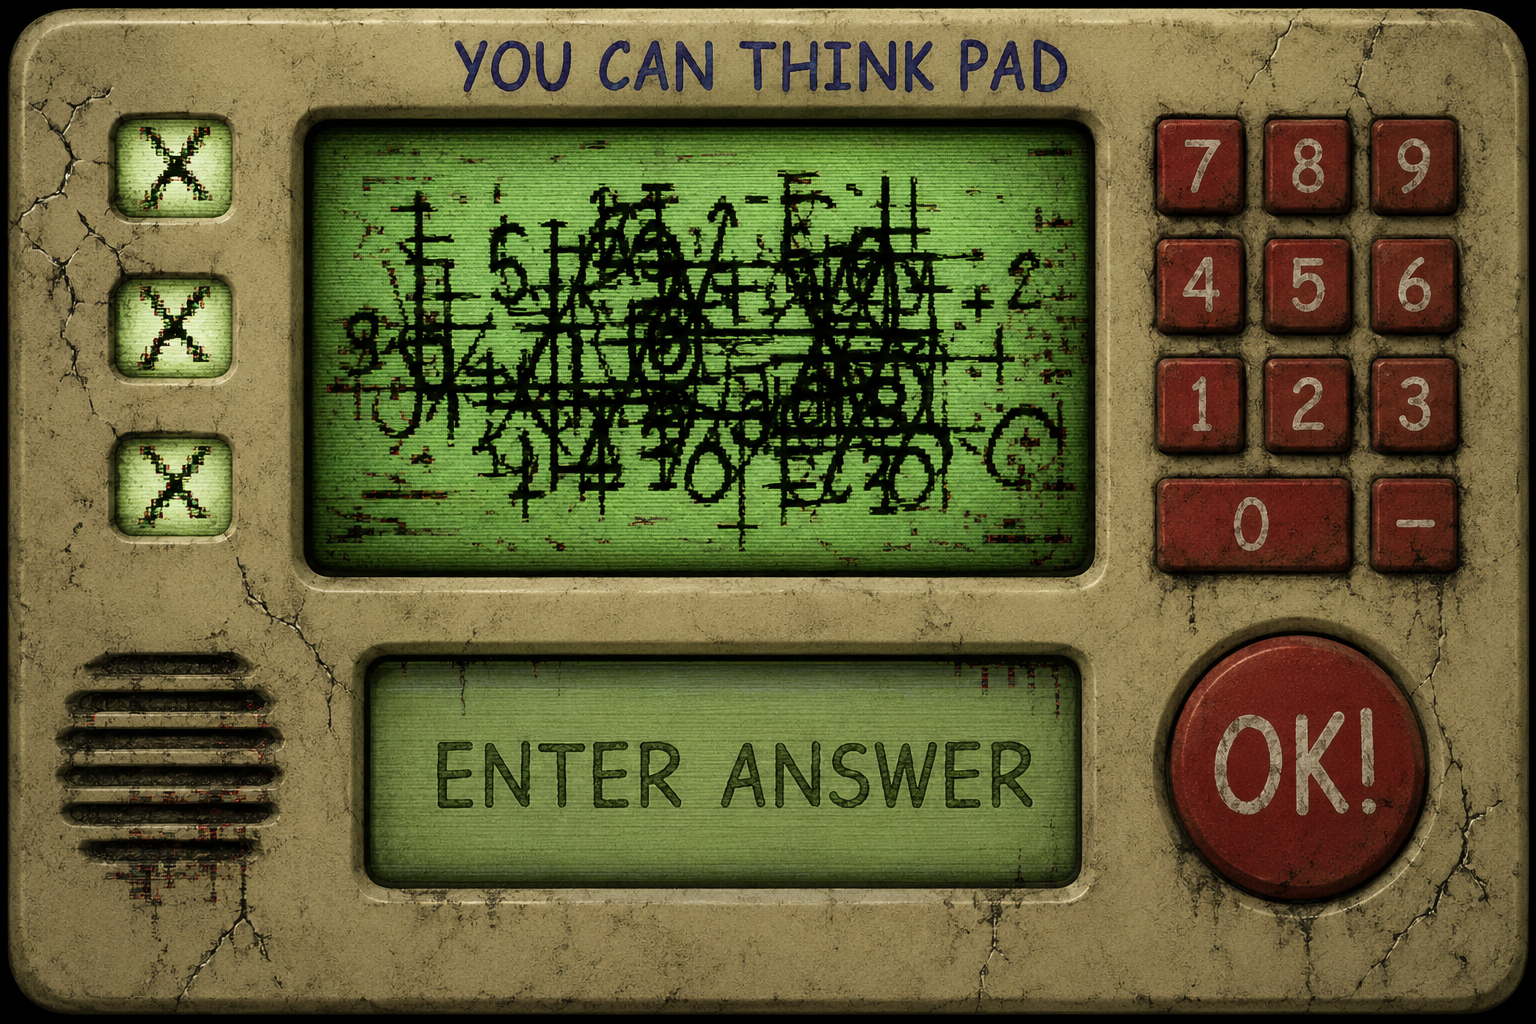
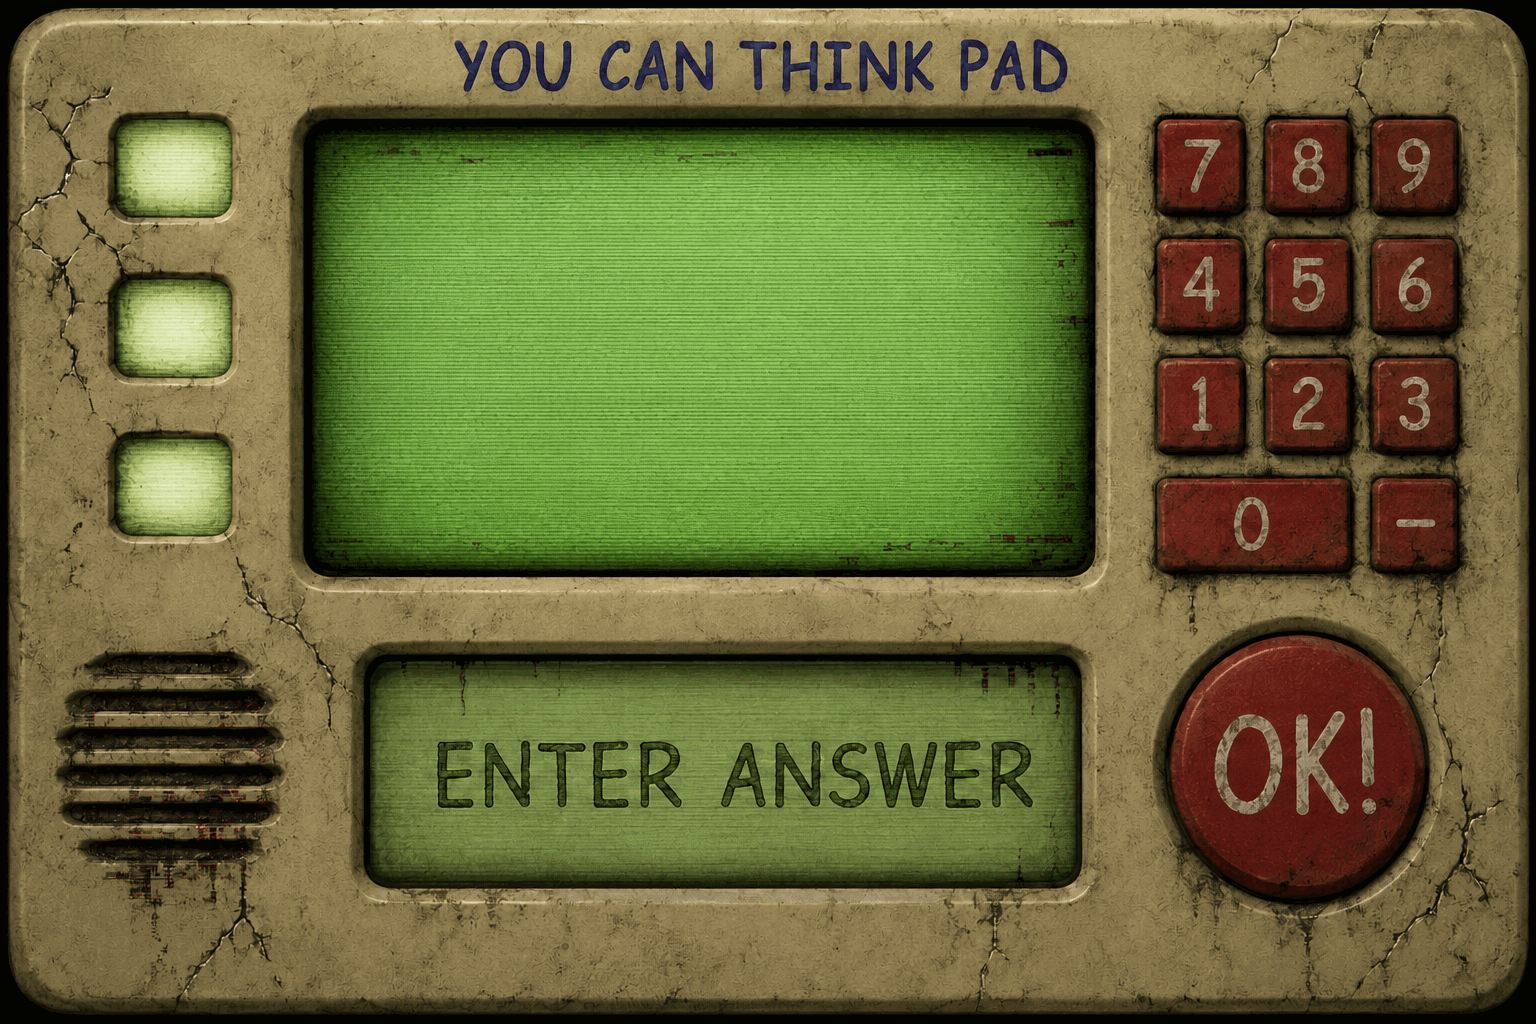
Fix cursed Think Pad live UI and clean artwork

diff --git a/Assets/CursedMod/CursedHorrorBootstrap.cs b/Assets/CursedMod/CursedHorrorBootstrap.cs
@@ -361,13 +361,29 @@ public static class CursedThinkPadInstaller
         GameObject root = math.mathGame != null ? math.mathGame : math.gameObject;
         if (root.transform.Find("Cursed Think Pad Skin") != null) return;
 
+        // The stock YCTP image is opaque around its transparent display cutouts.
+        // Hide only that background graphic; its keypad children remain active.
+        Transform stockThinkPad = root.transform.Find("YCTP");
+        if (stockThinkPad != null)
+        {
+            RawImage stockBackground = stockThinkPad.GetComponent<RawImage>();
+            if (stockBackground != null) stockBackground.enabled = false;
+        }
+
         GameObject skin = new GameObject("Cursed Think Pad Skin", typeof(RectTransform), typeof(CanvasRenderer), typeof(RawImage));
         skin.transform.SetParent(root.transform, false);
-        // The stock YCTP background is an opaque child of this canvas. Putting
-        // the cursed skin first leaves it hidden underneath that background.
-        // Render it last, but keep raycasts disabled so the original keypad and
-        // OK button underneath remain fully functional.
-        skin.transform.SetAsLastSibling();
+        // Insert the cursed background immediately before the live result layer.
+        // Questions, result marks, answer text and buttons then render above it.
+        int foregroundIndex = 1;
+        if (math.results != null && math.results.Length > 0 && math.results[0] != null)
+        {
+            Transform resultLayer = math.results[0].transform.parent;
+            if (resultLayer != null && resultLayer.parent == root.transform)
+            {
+                foregroundIndex = resultLayer.GetSiblingIndex();
+            }
+        }
+        skin.transform.SetSiblingIndex(Mathf.Clamp(foregroundIndex, 0, root.transform.childCount - 1));
         RectTransform rect = skin.GetComponent<RectTransform>();
         rect.anchorMin = Vector2.zero;
         rect.anchorMax = Vector2.one;
